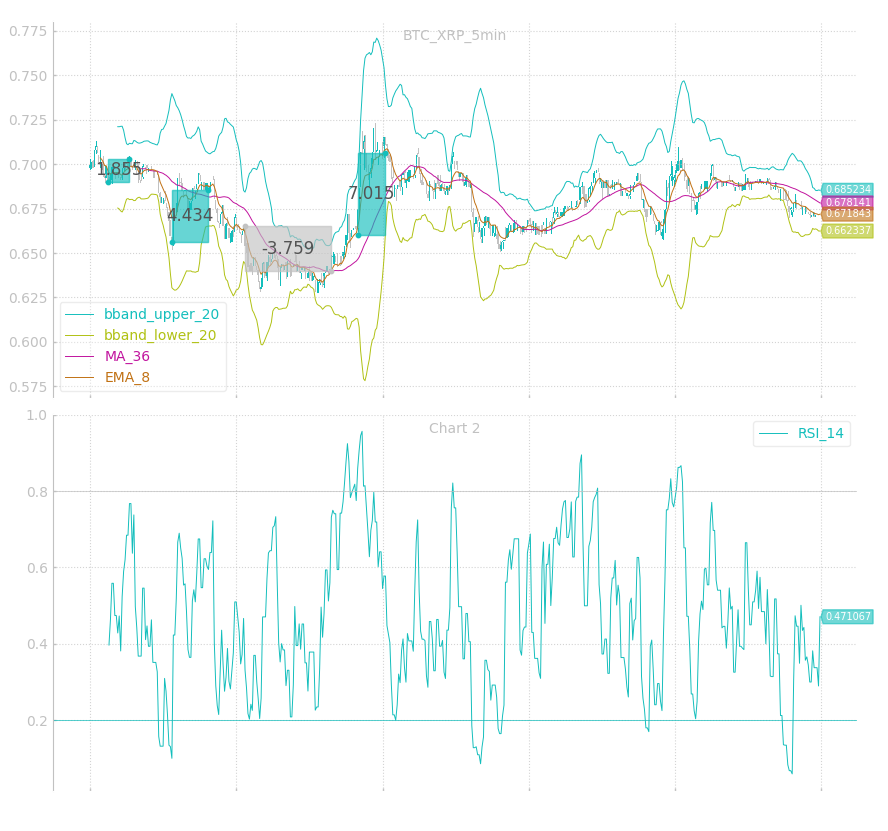
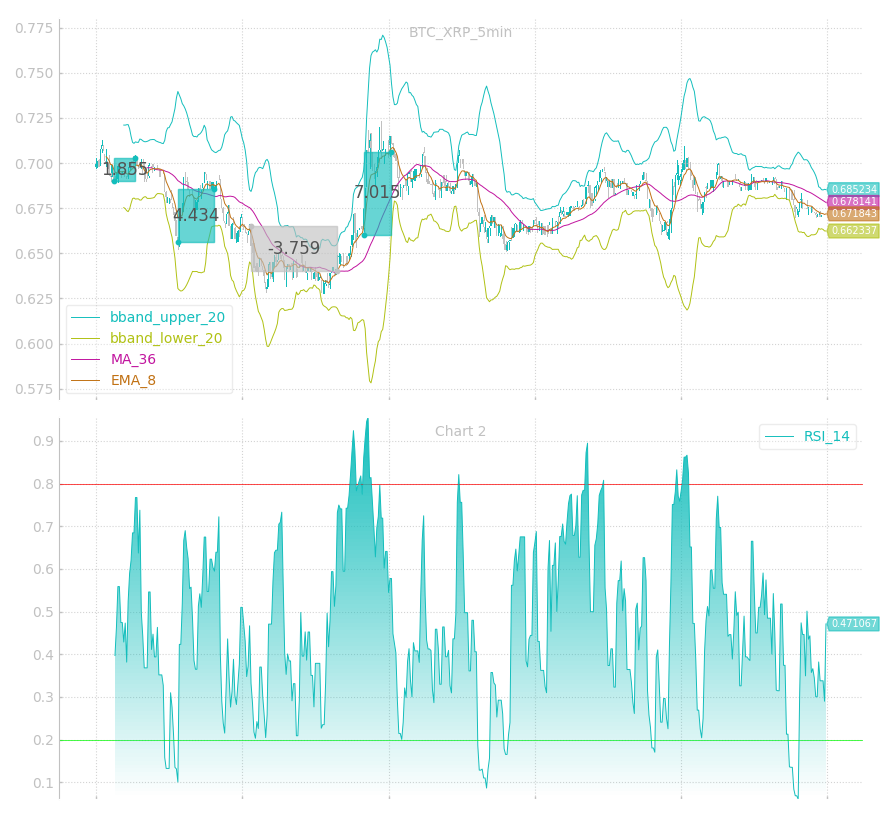
Added color gradients

diff --git a/mpl_finance_ext/mpl_finance_ext.py b/mpl_finance_ext/mpl_finance_ext.py
@@ -4,6 +4,8 @@ import numpy as np
 import pandas as pd
 from matplotlib.collections import LineCollection, PolyCollection
 from matplotlib.patches import BoxStyle
+from matplotlib.patches import Polygon
+import matplotlib.colors as mcolors
 from six.moves import xrange, zip
 from mpl_toolkits.mplot3d import Axes3D
 
@@ -292,6 +294,8 @@ def _plot(fig, ax, kwa, legend=True, data=None, plot_columns=None):
 
     # Plot columns
     enable_flags = kwa.get('enable_flags', True)
+    gradient_fill = kwa.get('gradient_fill', False)
+
     if kwa.get('set_flags_at_the_end', True) \
             and data is not None:
         last_index = data.index.values[-1]
@@ -305,8 +309,35 @@ def _plot(fig, ax, kwa, legend=True, data=None, plot_columns=None):
                 series = data[col]
                 color = color_set[i % len(color_set)]
 
-                ax.plot(series, linewidth=0.7,
-                        color=color)
+                line, = ax.plot(series, linewidth=0.7, color=color)
+
+                if gradient_fill:
+                    # From https://stackoverflow.com/questions/29321835/is-it-possible-to-get-color-gradients-
+                    #           under-curve-in-matplotlib?answertab=votes#tab-top
+                    series.dropna(inplace=True)
+                    x = series.index
+                    y = series.values
+
+                    zorder = line.get_zorder()
+                    alpha = line.get_alpha()
+                    alpha = 1.0 if alpha is None else alpha
+
+                    z = np.empty((100, 1, 4), dtype=float)
+                    rgb = mcolors.colorConverter.to_rgb(color)
+                    z[:, :, :3] = rgb
+                    z[:, :, -1] = np.linspace(0, alpha, 100)[:, None]
+
+                    xmin, xmax, ymin, ymax = x.min(), x.max(), y.min(), y.max()
+                    im = ax.imshow(z, aspect='auto', extent=[xmin, xmax, ymin, ymax],
+                                   origin='lower', zorder=zorder)
+
+                    xy = np.column_stack([x, y])
+                    xy = np.vstack([[xmin, ymin], xy, [xmax, ymin], [xmin, ymin]])
+                    clip_path = Polygon(xy, facecolor='none', edgecolor='none', closed=True)
+                    ax.add_patch(clip_path)
+                    im.set_clip_path(clip_path)
+                    ax.autoscale(True)
+
                 if enable_flags:
                     add_price_flag(
                         fig=fig, axis=ax,
@@ -605,6 +636,7 @@ def plot_candlestick(
         'xtickrotation': Angle of the x ticks
         'xlabel': x label
         'ylabel': y label
+        'gradient_fill': If True color gradients are activated
         'title': title
         'disable_x_ticks': Disables the x ticks
         'show': If true the chart will be plt.show()
@@ -699,6 +731,7 @@ def plot_filled_ohlc(
         'xtickrotation': Angle of the x ticks
         'xlabel': x label
         'ylabel': y label
+        'gradient_fill': If True color gradients are activated
         'title': title
         'disable_x_ticks': Disables the x ticks
         'show': If true the chart will be plt.show()
@@ -786,6 +819,7 @@ def scatter(data, **kwargs):
                 alpha: Alpha
         'xlabel': x label
         'ylabel': y label
+        'gradient_fill': If True color gradients are activated
         'title': title
         'disable_x_ticks': Disables the x ticks
         'show': If true the chart will be plt.show()
@@ -924,6 +958,7 @@ def plot(data, plot_columns=None, **kwargs):
                 alpha: Alpha
         'xlabel': x label
         'ylabel': y label
+        'gradient_fill': If True color gradients are activated
         'title': title
         'disable_x_ticks': Disables the x ticks
         'reset_index': Reset the index if True

diff --git a/examples/examples.py b/examples/examples.py
@@ -149,6 +149,7 @@ def example_1(data, signals):
         fig=fig,
         xhline_red=0.8,
         xhline_green=0.2,
+        gradient_fill=True
     )
 
     plt.show()

diff --git a/README.md b/README.md
@@ -104,6 +104,7 @@ mfe.plot(
     fig=fig,
     xhline_red=0.8,
     xhline_green=0.2,
+    gradient_fill=True
 )
 
 plt.show()
